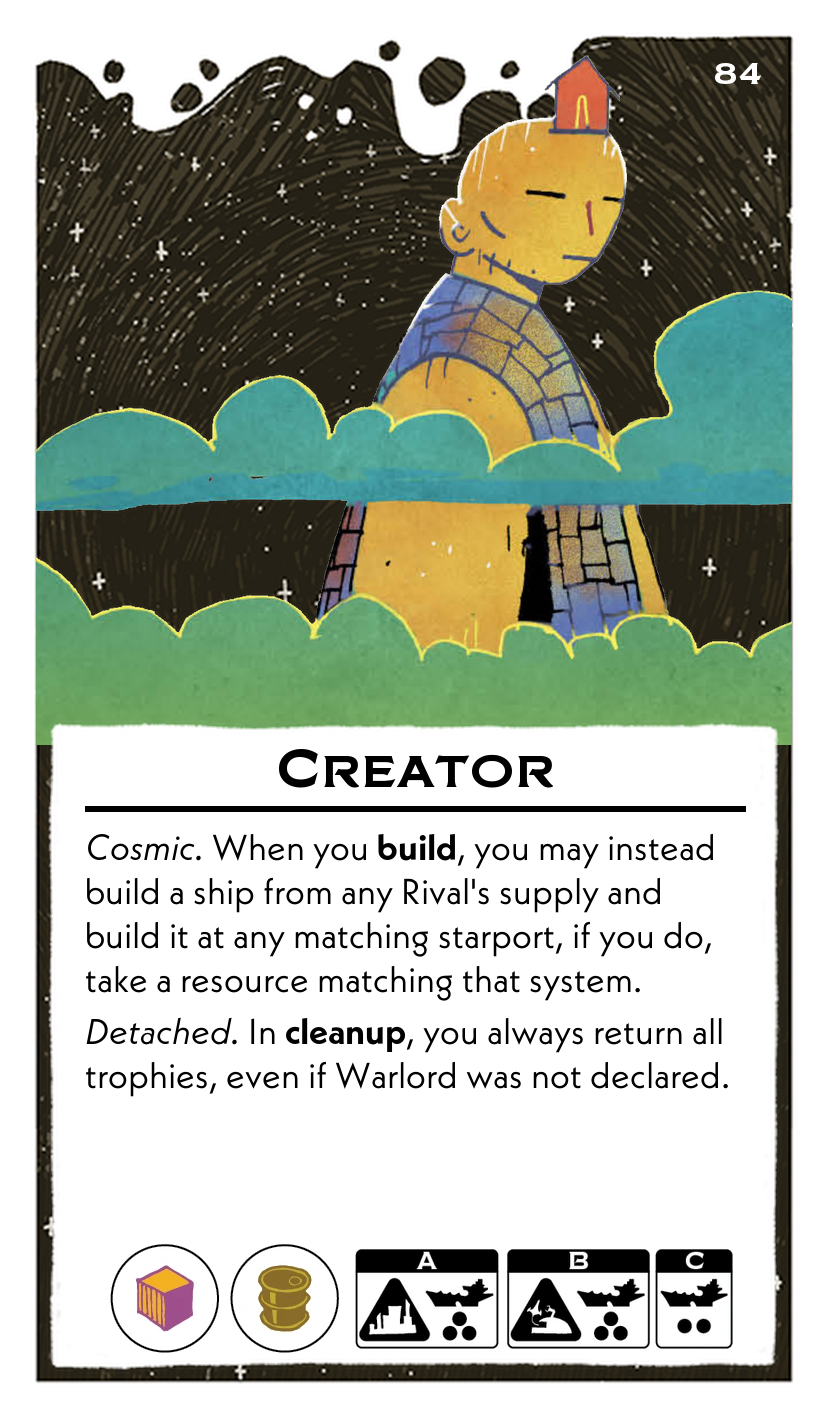
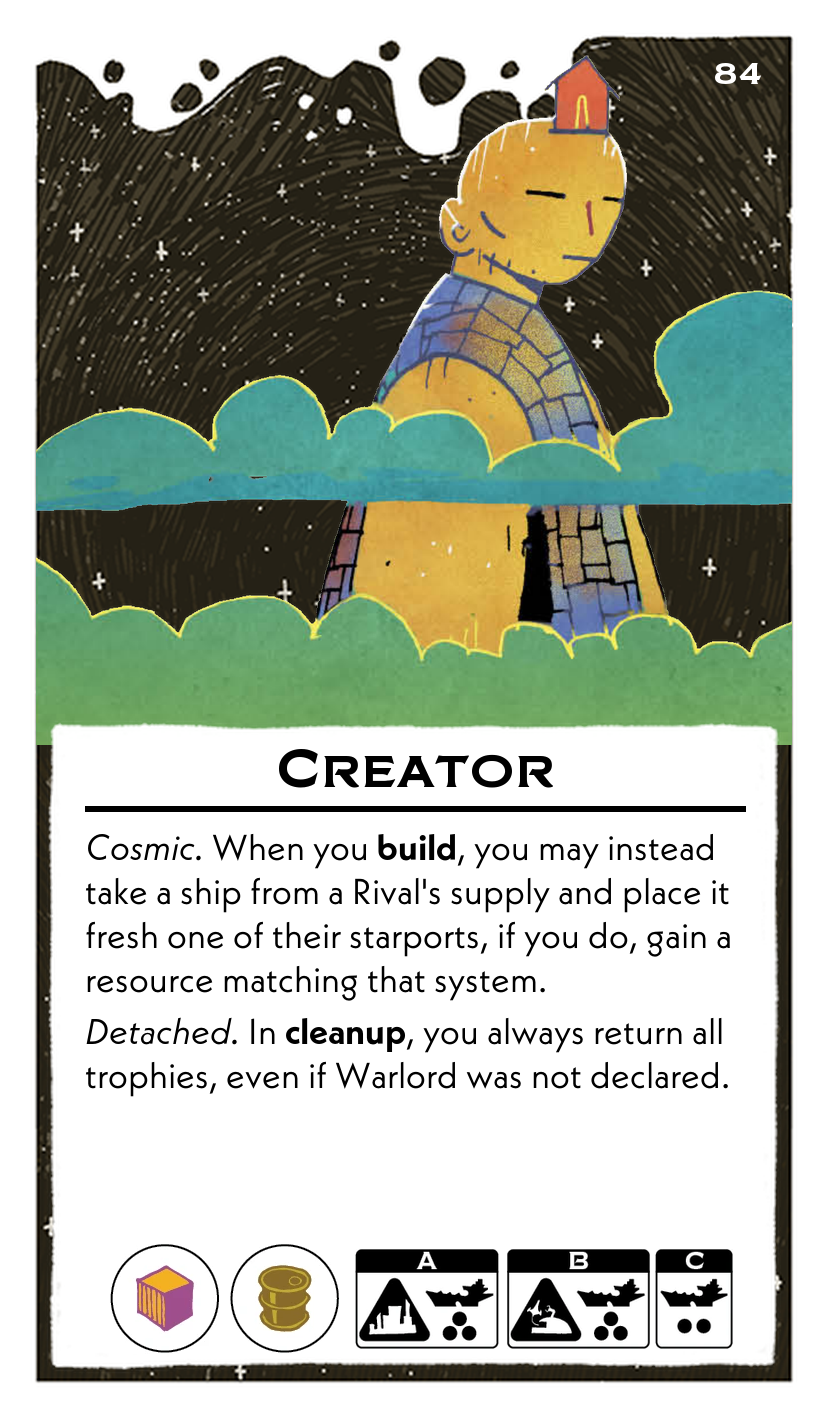
creator

Changed region(s): [[0.0907, 0.621, 0.8767, 0.7142]]

diff --git a/scripts/leadersFormatted.py b/scripts/leadersFormatted.py
@@ -1276,7 +1276,7 @@ leaders = [
     {
         "name": "Creator",
         "abilities": (
-            "*Cosmic.* When you **build**, you may instead build a ship from any Rival's supply and build it at any matching starport, if you do, take a resource matching that system.\n"
+            "*Cosmic.* When you **build**, you may instead take a ship from a Rival's supply and place it fresh one of their starports, if you do, gain a resource matching that system.\n"
             "*Detached.* In **cleanup**, you always return all trophies, even if Warlord was not declared."
         ),
         "resources": ["Material", "Fuel"],
